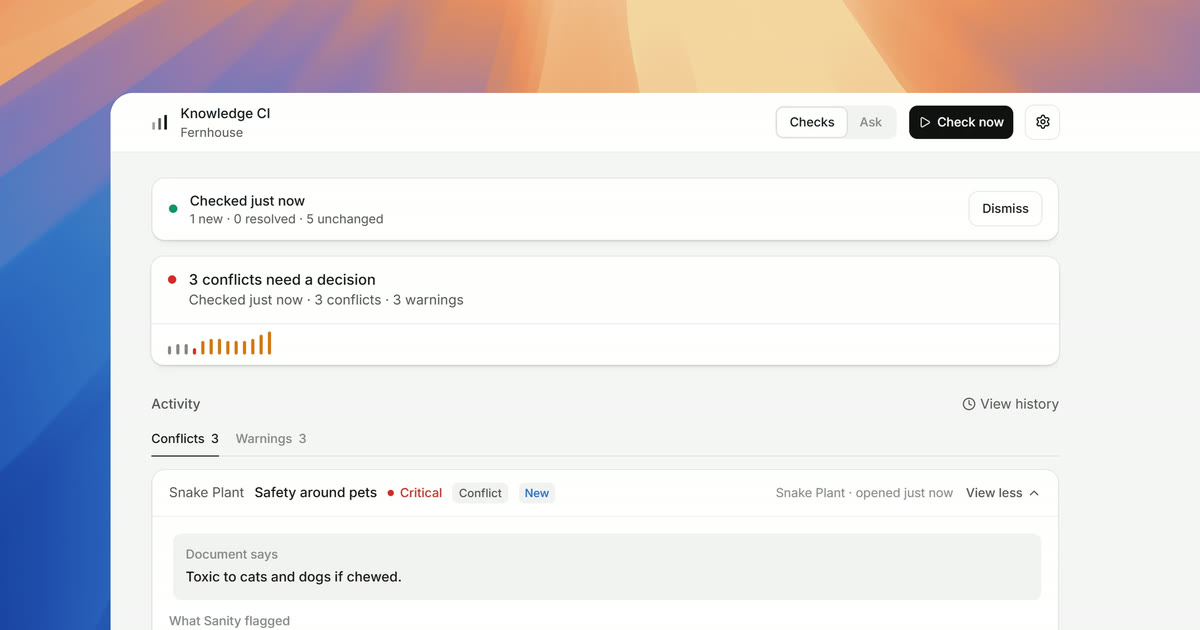
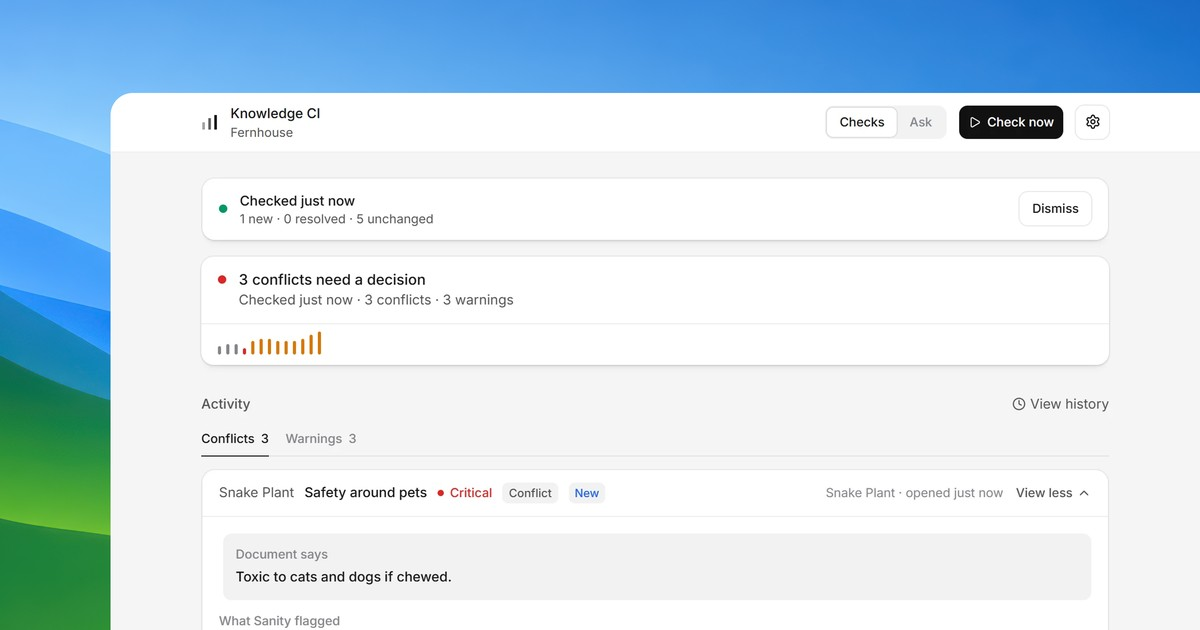
Centre the Knowledge CI share image and shorten both case study descriptions

diff --git a/app/medibridge/page.tsx b/app/medibridge/page.tsx
@@ -24,7 +24,7 @@ export const metadata: Metadata = {
 	title: "Medibridge",
 	alternates: { canonical: "/medibridge" },
 	description:
-		"How I designed and built Medibridge, a healthcare platform that turns paper, PDF, and image medical records into structured patient data and transfers them between hospitals with patient approval.",
+		"How I built Medibridge, a platform for digitising patient records and transferring them between hospitals with patient approval.",
 	openGraph: {
 		url: "/medibridge",
 		siteName: "Chibuike Maduabuchi",

diff --git a/app/knowledge-ci/page.tsx b/app/knowledge-ci/page.tsx
@@ -20,7 +20,7 @@ export const metadata: Metadata = {
 	title: "Knowledge CI",
 	alternates: { canonical: "/knowledge-ci" },
 	description:
-		"How I designed and built Knowledge CI, a Sanity Studio tool that rebuilds a Knowledge Base after every publish and shows editors which conflicts need a decision.",
+		"How I built Knowledge CI, a Sanity Studio tool that checks a Knowledge Base for conflicts after every publish.",
 	openGraph: {
 		url: "/knowledge-ci",
 		siteName: "Chibuike Maduabuchi",
